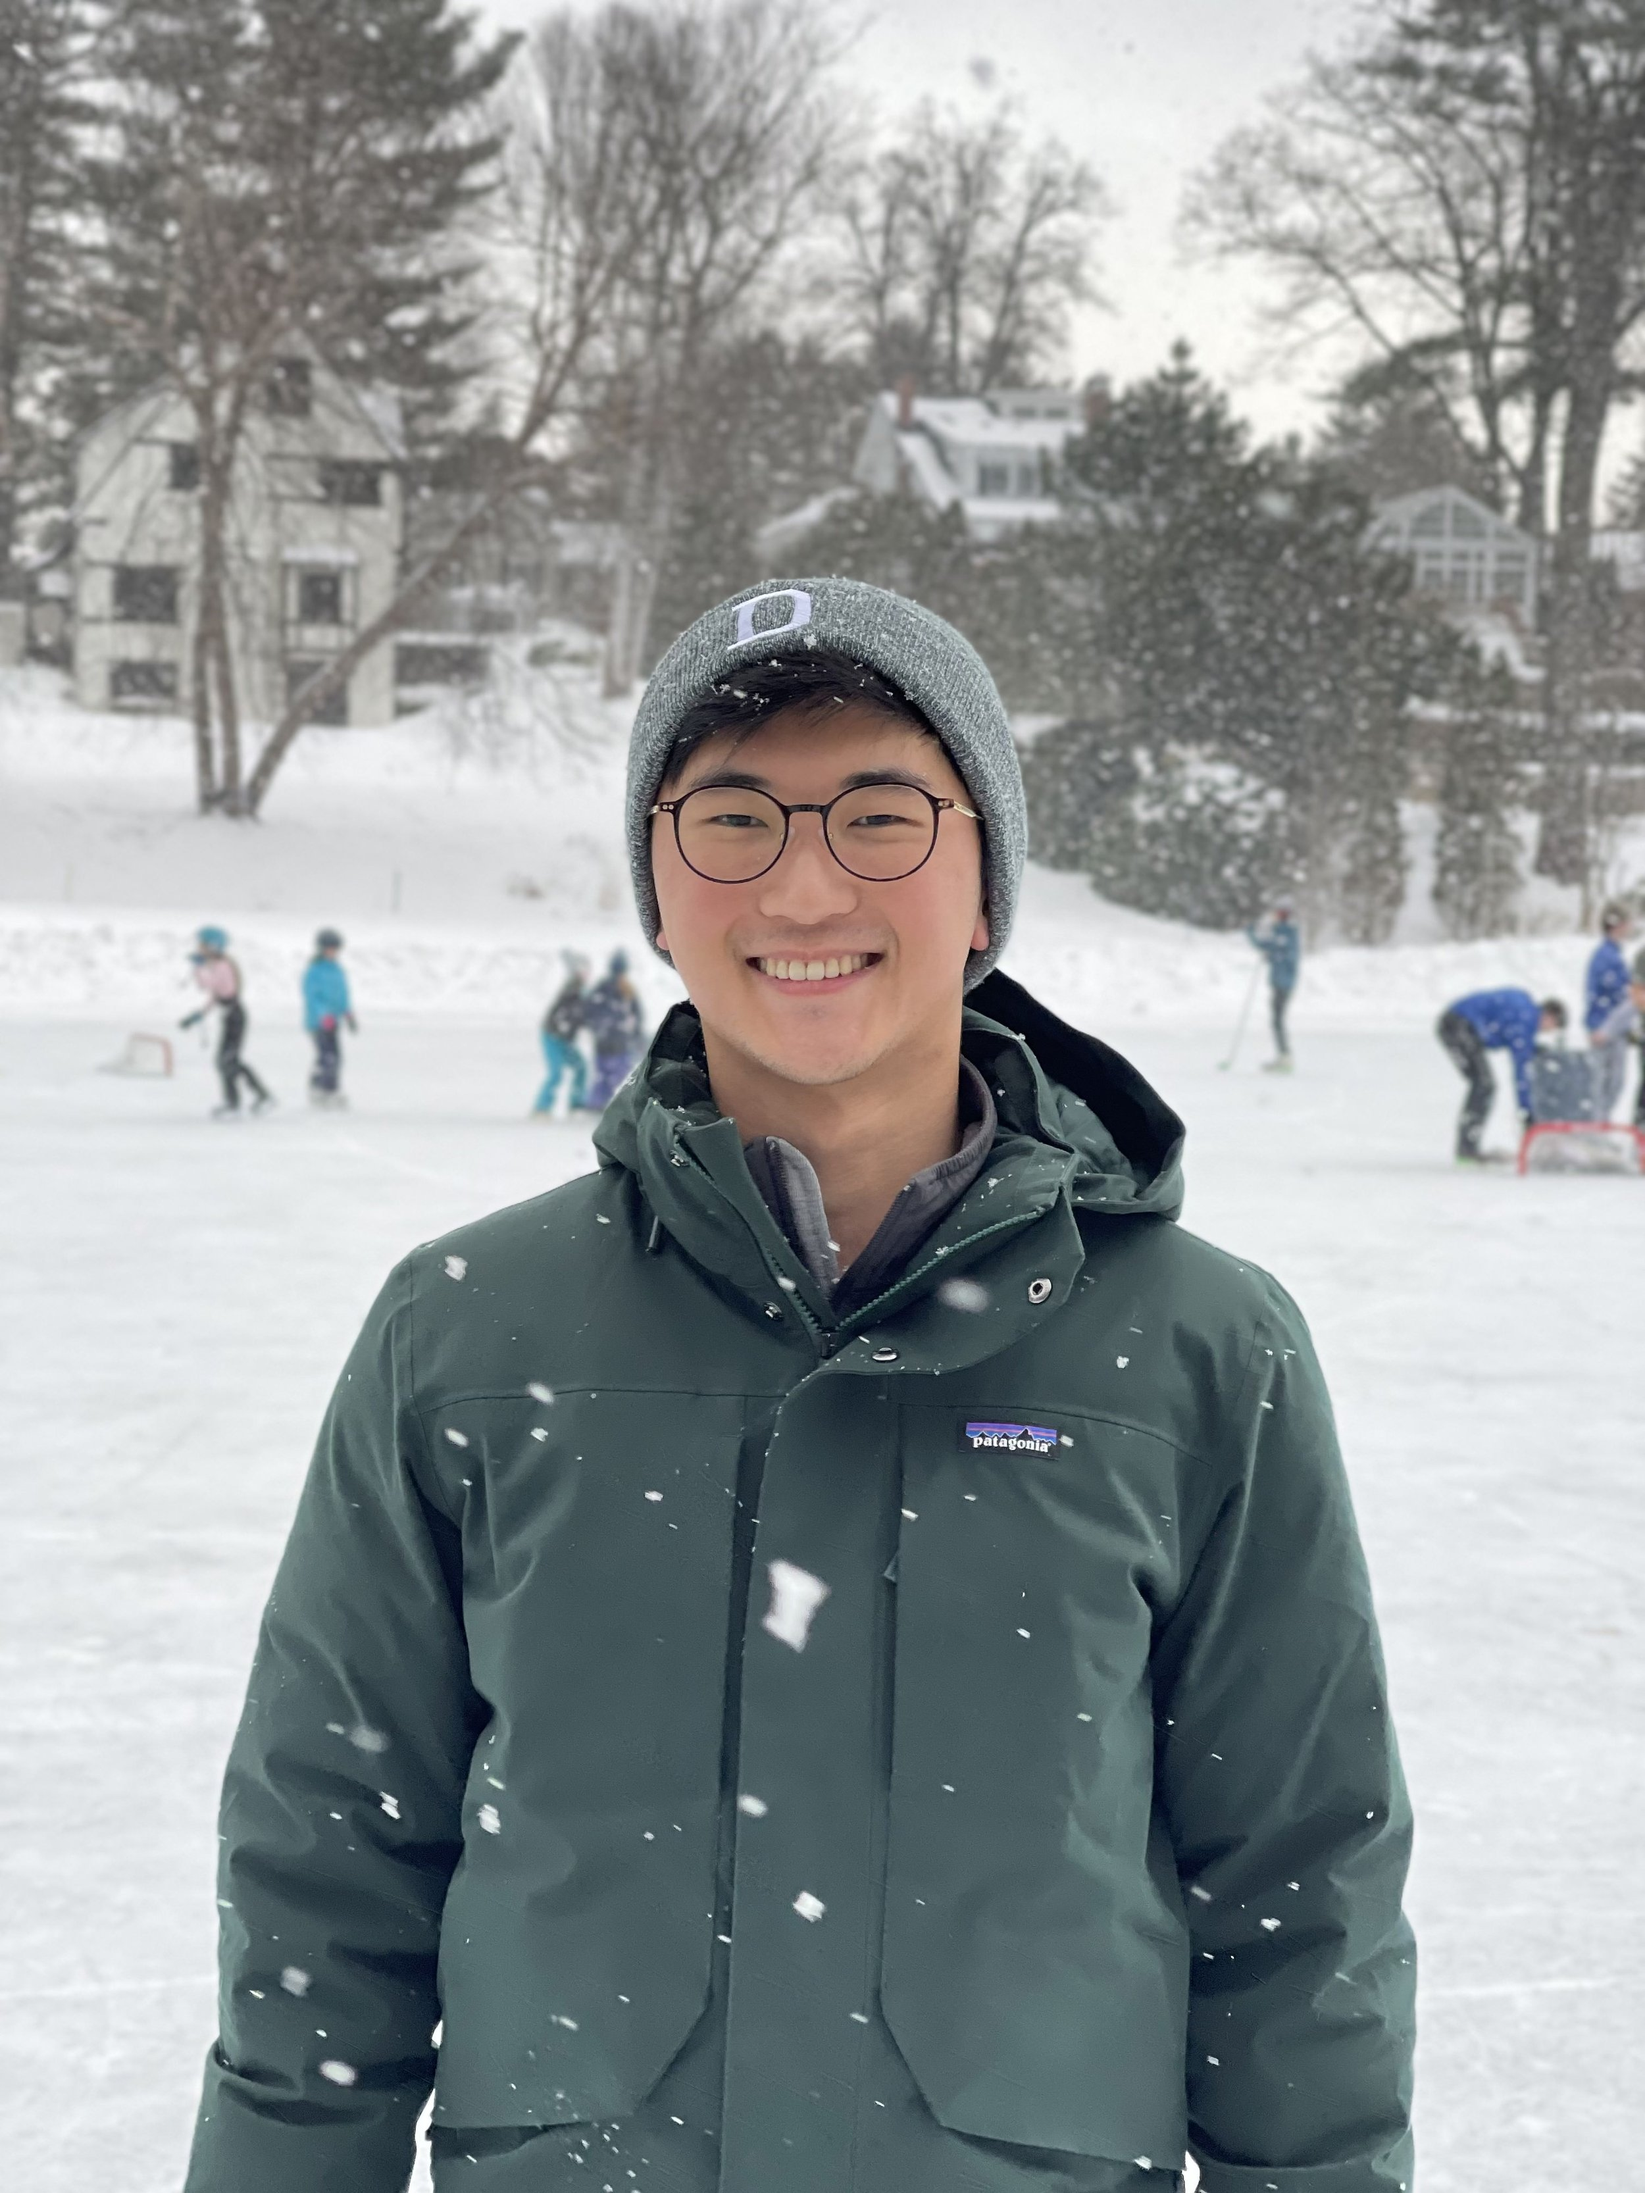
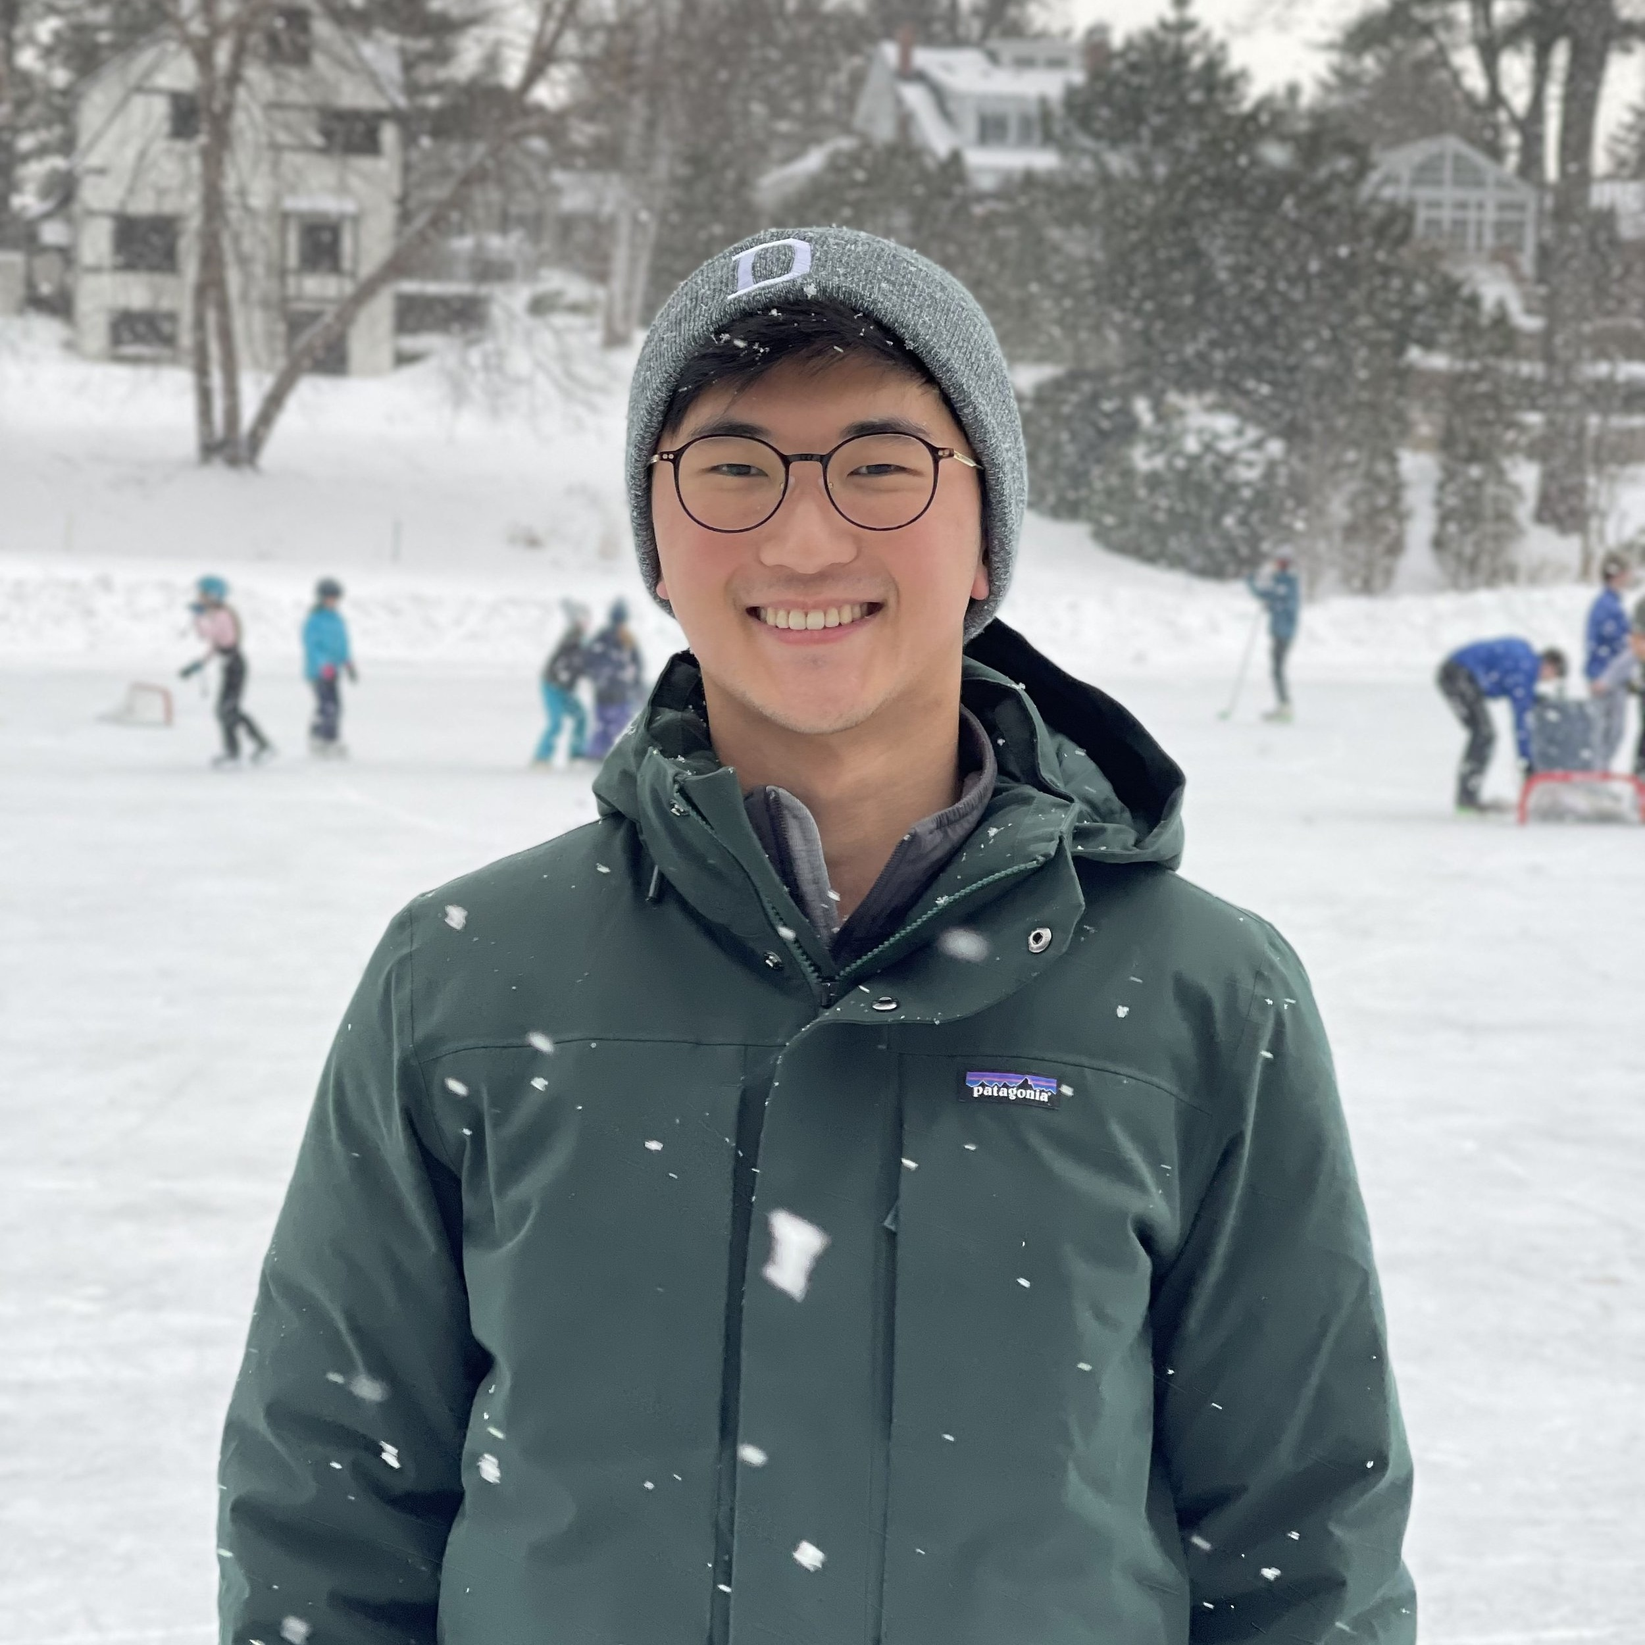
CSS

diff --git a/index.html b/index.html
@@ -6,29 +6,29 @@
     <!-- Took this code and inputted my own from chat gpt. 
          Chat GPT version "<link rel="icon" href="favicon.ico" type="image/x-icon">" -->
     <link rel="icon" href="small_logo.ico" type="image/x-icon">
+    <link rel="stylesheet" href="https://fonts.googleapis.com/css2?family=Roboto">
 </head>
 <div id="header">
     <header class="header_nav">
-        <nav>
+        <nav class="navbar">
             <ul>
-                <li><a href="#">Meet Matthew and Ale</a></li>
-                <li><a href="#">Platform</a></li>
-                <li><img id="logo"src="logo.png" alt="logo"></li>
-                <li><a href="#">Events</a></li>
-                <li><a href="#">Contact Us</a></li>
+                <li><a class="nav_regular" href="#">meet us</a></li>
+                <li><a class="nav_regular" href="#">platform</a></li>
+                <li><img class="logo" src="logo.png" alt="logo"></li>
+                <li><a class="nav_regular" href="#">events</a></li>
+                <li><a class="contact_button" href="#">contact us</a></li>
             </ul>
         </nav>
     </header>
+    <div class="nav_line"></div>
 </div>
 <div id="middle">
-    <article class="video">
-        <section id="cvideo">
-            <iframe width="960" height="540"></iframe>
-            <h1>Kim Carrasco, Let's Go!</h1>
-            <input type="text" placeholder="text us anything!">
-            <button>Message Us!</button>
-        </section>
-    </article>
+    <section>
+        <img class="nav_image" src="dartmouth_hall.jpeg" alt="logo">
+        <h1>Kim Carrasco, Let's Go!</h1>
+        <input type="text" placeholder="text us anything!">
+        <button>Message Us!</button>
+    </section>
     <article id="plans">
         <h1 class="sub-headers">What will Matthew and Ale Do?</h1>
         <section class="plan-desc">
@@ -50,13 +50,13 @@
     <article id="meet">
         <section class="bio">
             <h1 class="sub-headers">Meet Matthew</h1>
-            <img src="matthew.jpg" alt="matthew">
+            <img class="profile" src="matthew.jpg" alt="matthew">
             <p> Matthew Kim is a '25 from Austin, Texas studying Computer Science and Chinese and is excited to serve students in DSG. At Dartmouth, he is Co-Chair of Bait and Bullet, plays in the Dartmouth Symphony Orchestra, and is Co-Treasurer of the Korean Students Association. In his free time, he loves to go fishing and take care of his dorm plants!</p>
             <button>Learn More</button>
         </section>
         <section class="bio">
             <h1 class="sub-headers">Meet Ale</h1>
-            <img src="ale.jpg" alt="ale">
+            <img class="profile" src="ale.jpg" alt="ale">
             <p> Alejandra Carrasco is a Dartmouth Student from Lima, Peru. She is a Sociology mod. Latin American and Caribbean Studies and Education major. Alejandra is involved with Magnuson Student Leadership Board, DartUP (Social Entrepreneurship club), Chess Club, Global Issues Scholars, Team director of Dartmouth Women Investment Fund, Vice president of The Women's Network at Dartmouth and Senator at the Student Assembly at Dartmouth. She is also part of the FYSEP community and King Scholars. Before joining Dartmouth, she was former CEO-now Ambassador and CO-Founder of Wawa Laptop, the first eco-friendly laptop made in Peru. Also, she Co-found the NGO AEPEX (Peruvian student's abroad association) to democratize the information for low-income students about the application process to colleges' in the US. </p>
             <button>Learn More</button>
         </section>
@@ -115,7 +115,7 @@
         <h1 class="sub-headers">Read Our Platform</h1>
         <section class="platform">
             <h1>Our Platform</h1>
-            <iframe width="960" height="540"></iframe>
+            <iframe id="platform_video" width="960" height="540"></iframe>
             <p>Read our platform to learn more about what we will do for Dartmouth!</p>
         </section>
         <section class="end-button">

diff --git a/style.css b/style.css
@@ -1,4 +1,142 @@
+/* -------------- */
+/* Most Important */
+/* -------------- */
+
+html {
+     font-size: 16px;
+}
+
+/* Variations of Body */
+/* I learned on chat gpt that screen size for medium, small, and mobile are 1024px, 768px, and 480 px */
 body {
      color: rgb(5, 5, 5);
-     background-color: rgb(252, 252, 252);
+     background-color: rgb(232, 255, 246);
+     font-family: system-ui, -apple-system, BlinkMacSystemFont, 'Segoe UI', Roboto, Oxygen, Ubuntu, Cantarell, 'Open Sans', 'Helvetica Neue', sans-serif;
+     margin-left: 100px;
+     margin-right: 100px;
+     padding: 0;
+     transition: all .1s ease; /* I am including transition so changing screen size is smooth */
+}
+
+@media screen and (max-width: 1024px) {
+     body {
+          color: rgb(5, 5, 5);
+          background-color: rgb(232, 255, 246);
+          font-family: system-ui, -apple-system, BlinkMacSystemFont, 'Segoe UI', Roboto, Oxygen, Ubuntu, Cantarell, 'Open Sans', 'Helvetica Neue', sans-serif;
+          margin: 0;
+          padding: 0;
+          transition: all .1s ease;
+     }
+}
+/* 
+@media screen and (max-width: 768px) {
+     body {
+          color: rgb(5, 5, 5);
+          background-color: rgb(232, 255, 246);
+          font-family: system-ui, -apple-system, BlinkMacSystemFont, 'Segoe UI', Roboto, Oxygen, Ubuntu, Cantarell, 'Open Sans', 'Helvetica Neue', sans-serif;
+          margin: 0;
+          padding: 0;
+     }
+}
+
+@media screen and (max-width: 480px) {
+     body {
+          color: rgb(5, 5, 5);
+          background-color: rgb(232, 255, 246);
+          font-family: system-ui, -apple-system, BlinkMacSystemFont, 'Segoe UI', Roboto, Oxygen, Ubuntu, Cantarell, 'Open Sans', 'Helvetica Neue', sans-serif;
+          margin: 0;
+          padding: 0;
+     }
+} */
+
+
+/* ------- */
+/* Nav Bar */
+/* ------- */
+
+.header_nav {
+     text-transform: uppercase;
+     font-weight: bold;
+}
+
+
+/* Gained inspiration for navbar from ChatGPT Query "how to make my nav bar centered" */
+.navbar {
+     text-align: center; /* Center the content horizontally */
+     padding-top: 16px;
+     padding-bottom: 16px;
+}
+
+.navbar ul {
+     list-style-type: none;
+     display: flex;
+     flex-direction: row;
+     align-items: center;
+     justify-content: space-around;
+     margin: 0;
+     padding: 0;
+}
+
+/* Hovering for nav bar (creates line) */
+.navbar ul li a {
+     text-decoration: none;
+     border-bottom: 4px solid rgb(232, 255, 246);
+     color: #333; /* Text color for links */
+     padding: 6px 12px;
+     transition: all .1s linear;
+}
+
+.navbar ul li .nav_regular:hover {
+     text-decoration: none;
+     border-bottom: 4px solid rgb(5, 5, 5);
+     color: #333; /* Text color for links */
+     padding: 6px 12px;
+     transition: all .1s linear;
+}
+
+/* Gained inspiration from ChatGPT Query "how to make button colors in CSS" */
+.navbar ul li .contact_button {
+     border: 4px solid rgb(188, 17, 39); /* being smart by creating a "false" border so transition is smooth */
+     background: rgb(188, 17, 39);
+     color: rgb(255, 255, 255);
+     cursor: pointer;
+     padding: 6px 12px;
+     transition: all .1s linear;
+}
+
+.navbar ul li .contact_button:hover {
+     border: 4px solid rgb(5, 5, 5);
+     background: rgb(255, 255, 255);
+     color: rgb(5, 5, 5);     
+     transition: all .1s linear;
+}
+
+.nav_line {
+     border-top: 2px solid rgb(5, 5, 5); /* make just a line */
+     padding-bottom: 32px;
+}
+
+/* ---------- */
+/* All images */
+/* ---------- */
+.nav_image {
+     max-width: 100%;
+}
+
+.logo {
+     height: 80px;
+     width: auto;
+}
+
+.profile {
+     height: 160px;
+     width: auto;
+}
+
+/* ---------- */
+/* All Videos */
+/* ---------- */
+
+#platform_video {
+     max-width: 100%;
 }
